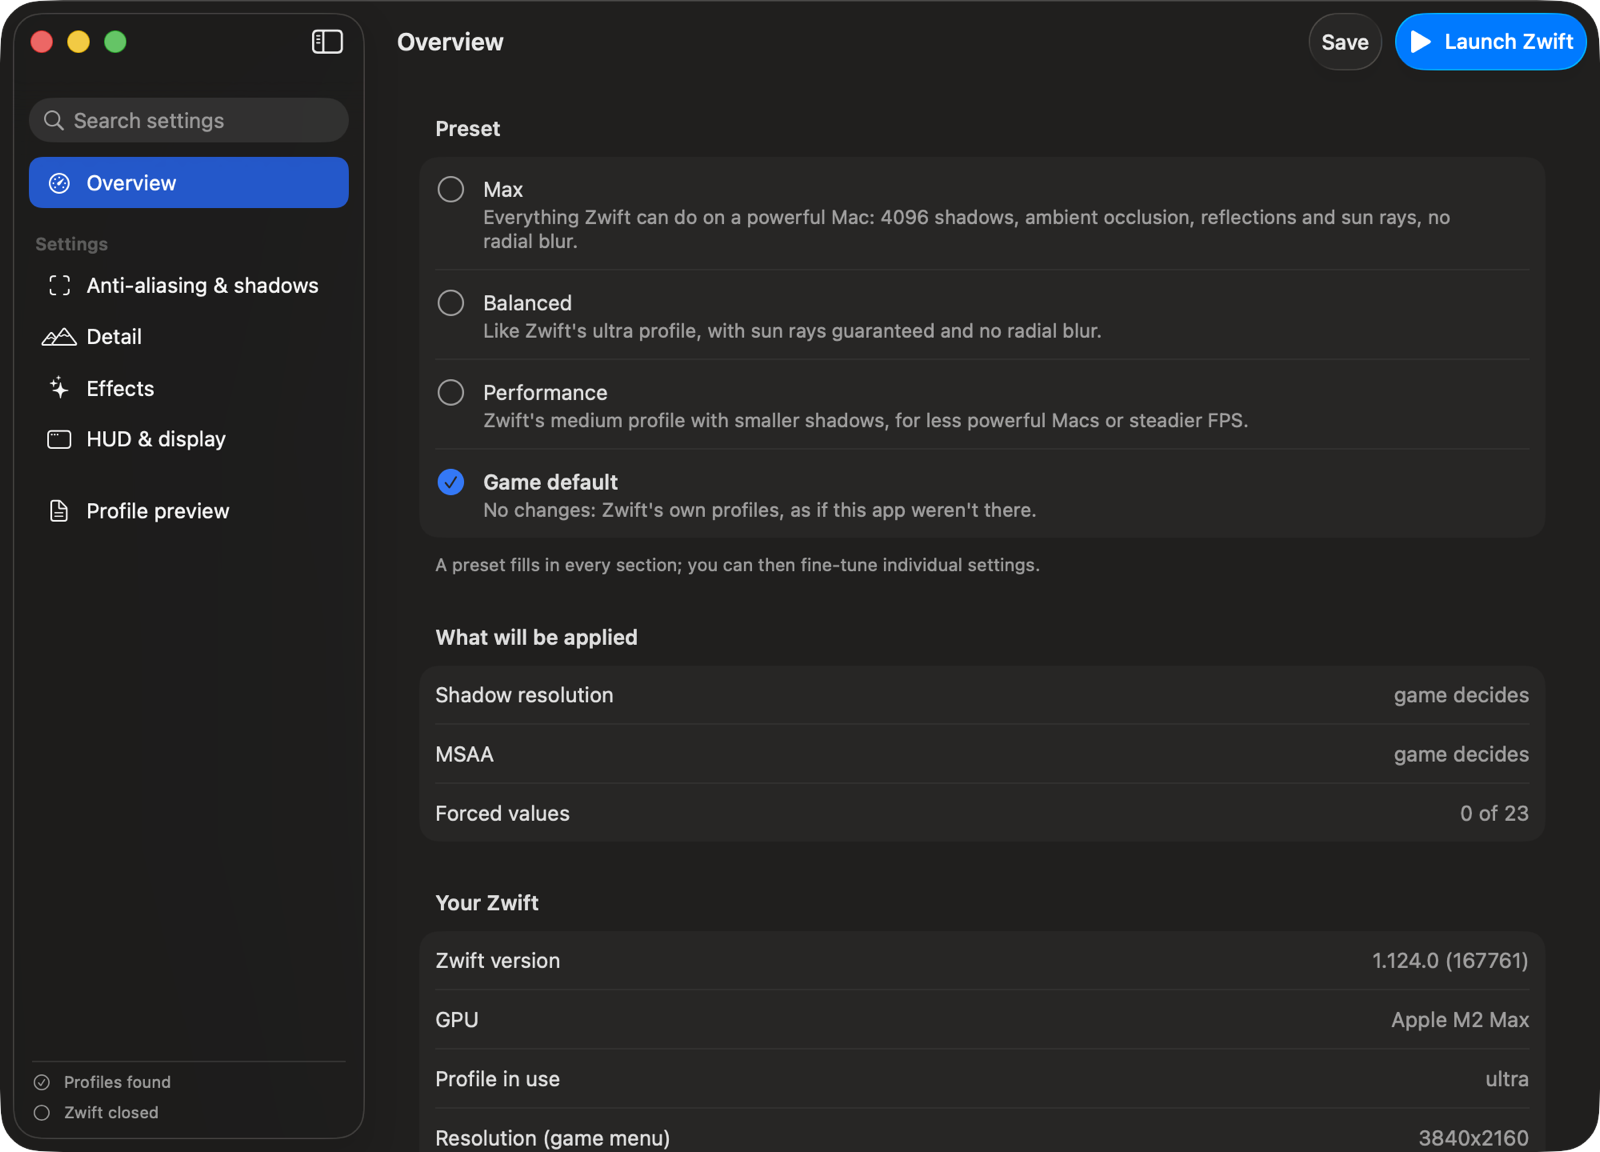
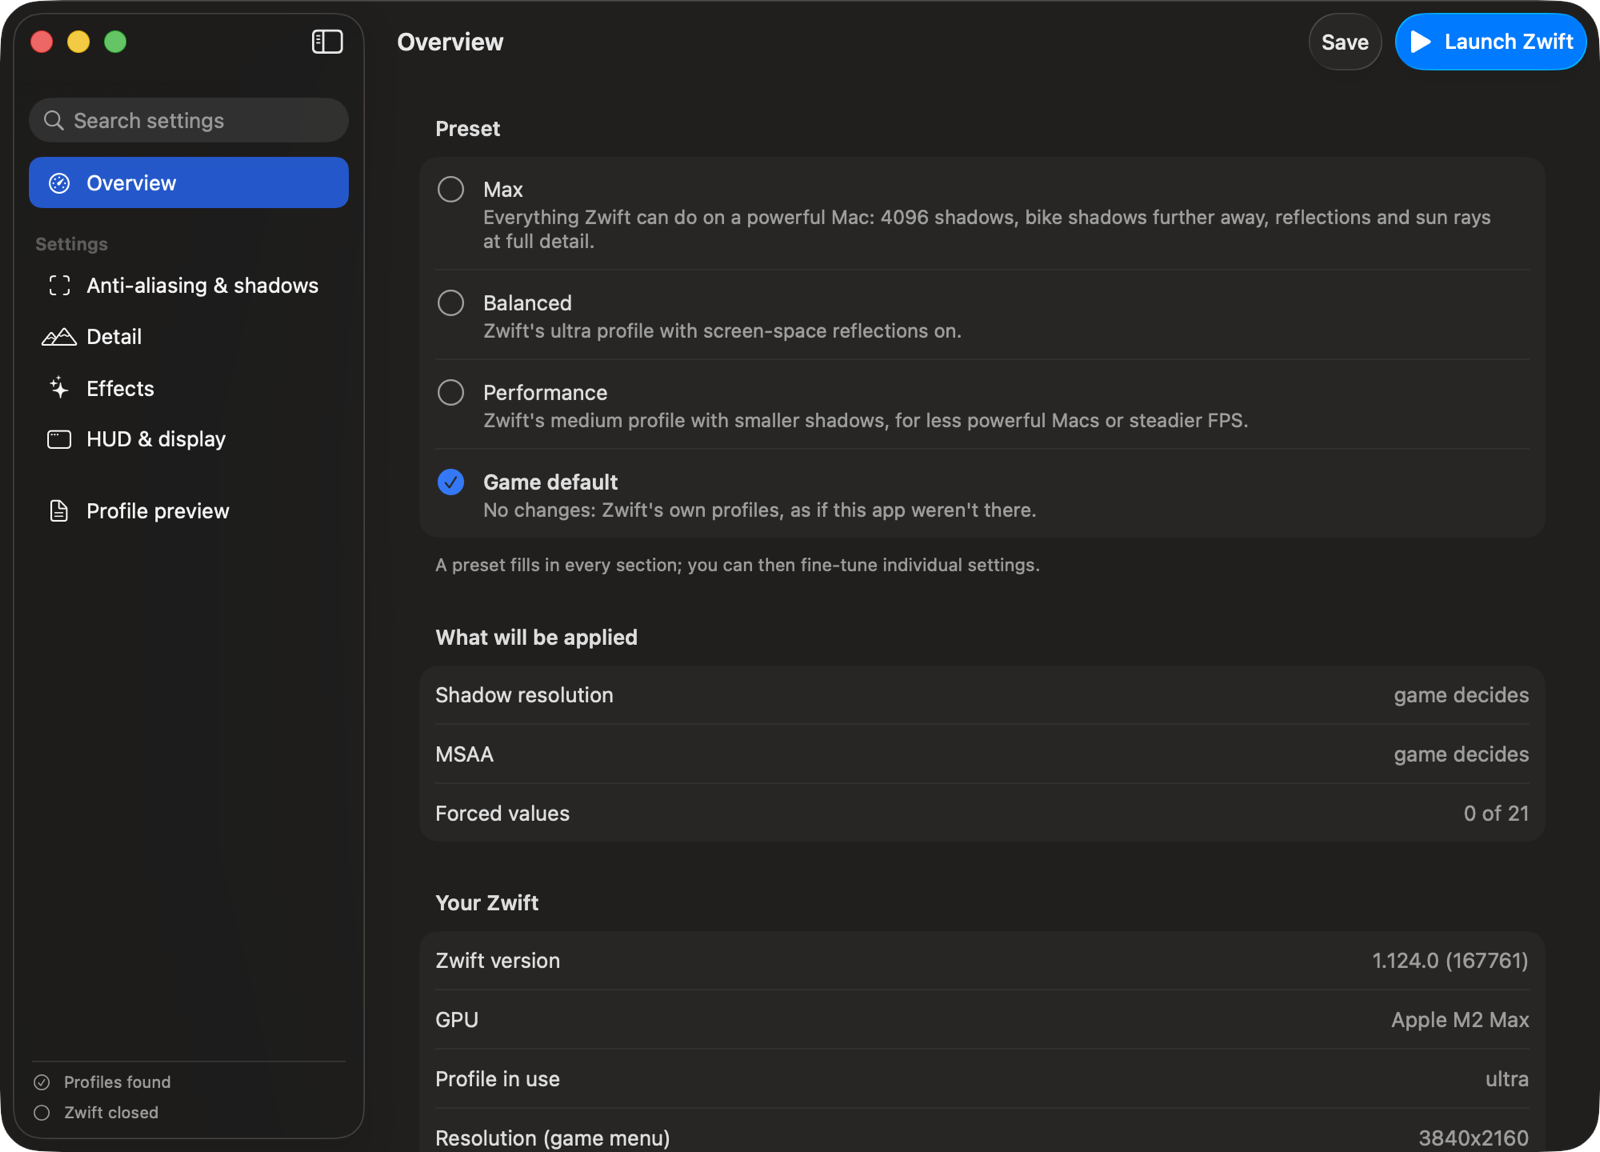
Keep only tweakables the game actually reads
Scanning the binary for accesses to each tweakable showed that gSSAO
and gRadialBlur are registered but never read, so they're removed.
gLODBias is clamped to 0-2 with an unsigned compare (-1 becomes 2) and
gFoliagePercent scales foliage instance counts, so it's capped at 1.
Bike shadow settings and gSSR get descriptions based on the code that
reads them.

diff --git a/Sources/Details.swift b/Sources/Details.swift
@@ -4,7 +4,7 @@ import Foundation
 enum Effectiveness {
     /// Zwift's own graphics profiles use it: the game reads it at every launch.
     case verified
-    /// Registered as a tweakable in the game, but Zwift's profiles never set it: the effect wasn't observed.
+    /// Zwift's profiles never set it, but the game's code reads it: the effect wasn't seen in game yet.
     case registered
     /// Values beyond what Zwift itself uses: unpredictable result.
     case experimental
@@ -12,7 +12,7 @@ enum Effectiveness {
     var label: String {
         switch self {
         case .verified: return L("Used by Zwift's own profiles")
-        case .registered: return L("Present in the game, effect not verified")
+        case .registered: return L("Read by the game's code, effect not seen in game yet")
         case .experimental: return L("Experimental")
         }
     }
@@ -33,11 +33,12 @@ struct SettingInfo {
 
 extension Catalog {
     /// Defaults the tweakables are registered with in the Zwift 1.124.0 binary (ZwiftAppSilicon), read from their static initializers.
+    /// gSSAO and gRadialBlur are left out: they are registered, but no code reads them.
     /// The graphics profile can change them at launch; the game falls back to these values otherwise.
     static let gameDefaults: [String: String] = [
         "gFXAA": "1", "gForceBikeShadows": "0", "g_BikeMaxShadowCascade": "1", "gLODBias": "0", "gFoliagePercent": "1.00",
-        "gSSAO": "0", "gSSR": "0", "gSimpleReflections": "0", "gSunRays": "1", "gBloom": "1", "gBloomStrength": "0.50",
-        "gRadialBlur": "1", "gVignette": "1", "gAutoExposure": "1", "gHeadlight": "1", "gHeadlightIntensity": "0.50",
+        "gSSR": "0", "gSimpleReflections": "0", "gSunRays": "1", "gBloom": "1", "gBloomStrength": "0.50",
+        "gVignette": "1", "gAutoExposure": "1", "gHeadlight": "1", "gHeadlightIntensity": "0.50",
         "gShowFPS": "0", "g_bDrawHud": "1", "gUseSpringyCamera": "1", "g_ShouldHideMouseAfterTimeout": "1",
         "g_HideMouseAfterMS": "5000",
     ]
@@ -51,19 +52,17 @@ extension Catalog {
         "msaa": .init(effect: .experimental, detail: L("Multisample anti-aliasing smooths the edges of geometry (bikes, riders, barriers) better than FXAA, at a high GPU cost. Zwift's profiles turn it off. The resolution set in Zwift's menu is applied after the profile without an MSAA value: whether MSAA survives that is unverified. Check the log for \"Changed resolution\". If the game already renders at a higher resolution than the display, the gain is small.")),
         "gFXAA": .init(effect: .verified, detail: L("Fast anti-aliasing applied to the final image: smooths edges almost for free, but makes the image a little softer. On in every Zwift profile.")),
         "sres": .init(effect: .verified, detail: L("Size of the sun's shadow map. 4096 makes the shadows of trees, riders and buildings on the road noticeably sharper; 8192 is very heavy on GPU memory and goes beyond what Zwift itself uses.")),
-        "gForceBikeShadows": .init(effect: .registered, detail: L("Draws shadows for every bike, not only the closest ones. Noticeable in big groups and events; the cost grows with the number of riders on screen.")),
-        "g_BikeMaxShadowCascade": .init(effect: .experimental, detail: L("How many shadow cascades bikes are drawn into (game default 1). Higher values could keep bike shadows at greater distances; the effect wasn't observed.")),
+        "gForceBikeShadows": .init(effect: .registered, detail: L("Bikes cast shadows only when an internal hardware flag allows it; this forces them on regardless. On a Mac where Zwift already draws bike shadows it changes nothing.")),
+        "g_BikeMaxShadowCascade": .init(effect: .registered, detail: L("Sun shadows are split into cascades, from the closest to the most distant. Bikes are drawn into cascades up to this index (game default 1): higher values keep the shadows of bikes further down the road, at a cost that grows with the number of riders.")),
 
-        "gLODBias": .init(effect: .verified, detail: L("When objects switch to simpler models. Zwift's basic and medium profiles use 1; ultra leaves 0. -1 is beyond what Zwift uses: it might keep full detail further away, or have no effect.")),
-        "gFoliagePercent": .init(effect: .verified, detail: L("How many trees, bushes and plants are drawn. Zwift's basic and medium profiles use 0.5; the game default is 1. Values above 1 are beyond what Zwift uses.")),
+        "gLODBias": .init(effect: .verified, detail: L("The most detailed model level the game may use: 0 allows full detail, 1 and 2 skip the best levels. Zwift's basic and medium profiles use 1. The game clamps it between 0 and 2, so there is no way to go beyond full detail (a negative value would even become 2).")),
+        "gFoliagePercent": .init(effect: .verified, detail: L("Share of the trees, bushes and plants that are drawn: the game multiplies each foliage instance count by this value. Zwift's basic and medium profiles use 0.5; 1 (the game default) is the maximum, as more instances than the ones loaded can't be drawn.")),
 
-        "gSSAO": .init(effect: .verified, detail: L("Soft shading in corners and where objects touch the ground: gives depth to scenery and riders. Off by default, on in Zwift's high and ultra profiles. Moderate GPU cost.")),
-        "gSSR": .init(effect: .registered, detail: L("Reflections computed from what's on screen: water, wet roads after the rain, shiny surfaces. Off by default and never turned on by Zwift's profiles.")),
+        "gSSR": .init(effect: .registered, detail: L("Reflections computed from what's on screen: water, wet roads after the rain, shiny surfaces. Off by default and never turned on by Zwift's profiles; the renderer also checks an internal flag before using them, so on some scenes it may change nothing.")),
         "gSimpleReflections": .init(effect: .verified, detail: L("A cheaper reflection model. Zwift's basic and medium profiles turn it on; leave it off for the best image.")),
         "gSunRays": .init(effect: .verified, detail: L("Light shafts when the sun shines through trees and buildings. On by default, off in Zwift's basic and medium profiles.")),
         "gBloom": .init(effect: .registered, detail: L("Glow around the sun and strong lights. Off gives a flatter, more neutral image.")),
         "gBloomStrength": .init(effect: .registered, detail: L("How strong the glow is (game default 0.5). Only used when bloom is on.")),
-        "gRadialBlur": .init(effect: .registered, detail: L("Blur toward the screen edges, typically when going fast. Many prefer it off for a sharper image during long rides.")),
         "gVignette": .init(effect: .registered, detail: L("Darkens the corners of the image, like a camera lens. Off gives a more even image.")),
         "gAutoExposure": .init(effect: .registered, detail: L("Adapts brightness when going from bright to dark areas (tunnels, forests), like an eye. Off keeps the exposure fixed.")),
         "gHeadlight": .init(effect: .verified, detail: L("The bikes' front lights at dusk and night. On by default, off in Zwift's basic and medium profiles.")),

diff --git a/Sources/Settings.swift b/Sources/Settings.swift
@@ -58,7 +58,7 @@ struct SettingDef: Identifiable {
         }
     }
 
-    /// The profile line for a value, e.g. `set gSSAO=1` or `sres 4096x4096`.
+    /// The profile line for a value, e.g. `set gSSR=1` or `sres 4096x4096`.
     func line(for value: String, resolution: String?) -> String? {
         switch command {
         case .tweakable:
@@ -103,7 +103,7 @@ enum SettingSection: String, CaseIterable, Identifiable {
         case .antiAliasing:
             return L("Zwift picks a graphics profile (basic, medium, high or ultra) from its own list of GPUs, then applies the resolution chosen in its menu. The menu has no anti-aliasing or shadow settings.")
         case .detail:
-            return L("Zwift's lower profiles halve the foliage and raise the level-of-detail bias; ultra leaves both at the game's defaults.")
+            return L("Zwift's lower profiles halve the foliage and raise the level-of-detail bias; ultra leaves both at full detail, which is also the most the game allows.")
         default:
             return nil
         }
@@ -140,19 +140,18 @@ enum Catalog {
 
         // Detail
         tweak("gLODBias", L("Level-of-detail bias"), .detail, .choice([
-            Option(value: "-1", label: L("-1 · More detail")), Option(value: "0", label: L("0 · Normal")),
-            Option(value: "1", label: L("1 · Less detail")), Option(value: "2", label: L("2 · Much less detail")),
+            Option(value: "0", label: L("0 · Full detail")), Option(value: "1", label: L("1 · Less detail")),
+            Option(value: "2", label: L("2 · Much less detail")),
         ])),
-        tweak("gFoliagePercent", L("Foliage density"), .detail, .slider(min: 0.25, max: 1.5, step: 0.25, decimals: 2, unit: "×")),
+        // The game multiplies its foliage instance counts by this value: above 1 they would exceed what was loaded.
+        tweak("gFoliagePercent", L("Foliage density"), .detail, .slider(min: 0.25, max: 1, step: 0.25, decimals: 2, unit: "×")),
 
         // Effects
-        tweak("gSSAO", L("Ambient occlusion (SSAO)"), .effects),
         tweak("gSSR", L("Screen-space reflections"), .effects),
         tweak("gSimpleReflections", L("Simplified reflections"), .effects),
         tweak("gSunRays", L("Sun rays"), .effects),
         tweak("gBloom", L("Bloom"), .effects),
         tweak("gBloomStrength", L("Bloom strength"), .effects, .slider(min: 0, max: 1.5, step: 0.05, decimals: 2, unit: "")),
-        tweak("gRadialBlur", L("Radial blur"), .effects),
         tweak("gVignette", L("Vignette"), .effects),
         tweak("gAutoExposure", L("Auto exposure"), .effects),
         tweak("gHeadlight", L("Headlights"), .effects),
@@ -189,20 +188,19 @@ struct Preset: Identifiable, Hashable {
     }
 
     static let builtIn: [Preset] = [
-        Preset(id: "max", name: L("Max"), summary: L("Everything Zwift can do on a powerful Mac: 4096 shadows, ambient occlusion, reflections and sun rays, no radial blur."),
+        Preset(id: "max", name: L("Max"), summary: L("Everything Zwift can do on a powerful Mac: 4096 shadows, bike shadows further away, reflections and sun rays at full detail."),
                values: [
-                   "sres": "4096", "gFXAA": "1", "gForceBikeShadows": "1",
+                   "sres": "4096", "gFXAA": "1", "gForceBikeShadows": "1", "g_BikeMaxShadowCascade": "2",
                    "gLODBias": "0", "gFoliagePercent": "1.00",
-                   "gSSAO": "1", "gSSR": "1", "gSimpleReflections": "0", "gSunRays": "1", "gHeadlight": "1",
-                   "gRadialBlur": "0",
+                   "gSSR": "1", "gSimpleReflections": "0", "gSunRays": "1", "gHeadlight": "1",
                ]),
-        Preset(id: "balanced", name: L("Balanced"), summary: L("Like Zwift's ultra profile, with sun rays guaranteed and no radial blur."),
+        Preset(id: "balanced", name: L("Balanced"), summary: L("Zwift's ultra profile with screen-space reflections on."),
                values: [
-                   "sres": "2048", "gFXAA": "1", "gSSAO": "1", "gSunRays": "1", "gRadialBlur": "0",
+                   "sres": "2048", "gFXAA": "1", "gSSR": "1", "gSunRays": "1",
                ]),
         Preset(id: "performance", name: L("Performance"), summary: L("Zwift's medium profile with smaller shadows, for less powerful Macs or steadier FPS."),
                values: [
-                   "sres": "1024", "gFXAA": "1", "gSSAO": "0", "gSunRays": "0", "gHeadlight": "0",
+                   "sres": "1024", "gFXAA": "1", "gSunRays": "0", "gHeadlight": "0",
                    "gFoliagePercent": "0.50", "gSimpleReflections": "1", "gLODBias": "1",
                ]),
         Preset(id: "original", name: L("Game default"), summary: L("No changes: Zwift's own profiles, as if this app weren't there."),

diff --git a/Tests/main.swift b/Tests/main.swift
@@ -15,7 +15,7 @@ let max = ConfigPlan(values: Catalog.validated(Preset.builtIn.first { $0.id == "
 let composed = ProfileFile.compose(ultra, lines: max.lines)
 check("original kept at the top", composed.hasPrefix(ultra))
 check("shadow line before tweakables", max.lines.first == "sres 4096x4096")
-check("tweakables written as set", max.lines.contains("set gSSR=1") && max.lines.contains("set gRadialBlur=0"))
+check("tweakables written as set", max.lines.contains("set gSSR=1") && max.lines.contains("set g_BikeMaxShadowCascade=2"))
 check("ends with a newline", composed.hasSuffix("\n") && !composed.hasSuffix("\n\n"))
 check("missing trailing newline handled", ProfileFile.compose("set gFXAA=1", lines: ["set gSSR=1"]) == "set gFXAA=1\nset gSSR=1\n")
 // 3. The original is recovered from the backup only while the file still holds what the app wrote
@@ -52,7 +52,9 @@ check("gpu read", snapshot.gpu == "Apple M2 Max")
 check("commands of the last launch only", snapshot.lastLaunchCommands == ["res 1920x1080(0x)", "set gSSAO=1", "set nAIBikes=24"])
 check("unknown variables reported", snapshot.unknownVariables == ["nAIBikes"])
 // 8. Validation rejects out-of-range and snaps sliders
-check("invalid values dropped", Catalog.validated(["sres": "3000", "gSSAO": "2", "foo": "1"]).isEmpty)
+check("invalid values dropped", Catalog.validated(["sres": "3000", "gSSR": "2", "gSSAO": "1", "foo": "1"]).isEmpty)
+check("negative LOD bias rejected (the game turns it into 2)", Catalog.validated(["gLODBias": "-1"]).isEmpty)
+check("foliage capped at 1", Catalog.validated(["gFoliagePercent": "1.25"]).isEmpty)
 check("slider snapped", Catalog.validated(["gFoliagePercent": "0.8", "gBloomStrength": "0.52"]) == ["gFoliagePercent": "0.75", "gBloomStrength": "0.50"])
 check("slider out of range dropped", Catalog.validated(["gFoliagePercent": "4"]).isEmpty)
 // 9. Every preset value is valid, and every tweakable has a game default

diff --git a/README.md b/README.md
@@ -19,10 +19,10 @@ This project was developed with the help of AI (Anthropic's Claude), including t
 ## Features
 
 - **Presets**: Max, Balanced, Performance, or the game's own profiles, then fine-tune any setting.
-- **23 settings in 4 sections**: anti-aliasing and shadows, detail, effects, HUD and display.
-- **Allowed values only**: every control is limited to values that make sense for the variable's type.
+- **21 settings in 4 sections**: anti-aliasing and shadows, detail, effects, HUD and display. Every one of them is read by the game's code.
+- **Allowed values only**: every control is limited to the values the game's code actually handles.
 - **The game's value next to each setting**: what the profile Zwift picked sets, or the default the game registers the variable with.
-- **Explanations**: what each setting does, what it costs, and how certain it is to have an effect (used by Zwift's own profiles / present in the game but not verified / experimental).
+- **Explanations**: what each setting does, what it costs, and how certain it is to have an effect (used by Zwift's own profiles / read by the game's code but not seen in game yet / experimental).
 - **Your Zwift**: version, GPU, the profile picked at the last launch, the commands it ran and any variable it didn't recognize, read from Zwift's log.
 - **Search**, a **preview** of exactly what will be written, automatic **backups** of the original profiles.
 - **Launch Zwift** with one click (⌘R), so the settings are always in place when the game starts.
@@ -57,13 +57,19 @@ Findings from analysing Zwift 1.124.0 (build 167761) on macOS:
 - **Graphics profiles are console scripts.** `data/configs/{basic,medium,high,ultra}.txt` contain commands such as `res 1920x1080(0x)`, `sres 2048x2048` and `set gSSAO=1`. At every launch the game matches the GPU against its own list and logs `Using ultra graphics profile`, followed by every command it runs.
 - **The menu's resolution comes last.** After the profile, the game applies `USER_RESOLUTION_PREF` from `~/Documents/Zwift/prefs.xml`, without an MSAA suffix. Whether MSAA set by the profile survives is unverified, so the app marks it experimental and writes it with the same resolution.
 - **Tweakables.** The game's console (`set`, `listvars`, `help`) changes "tweakable" global variables. 217 of them are registered in the binary; their names, types and default values were read from the static initializers that register them. Only visual ones are exposed here: the others drive physics, steering, braking, drafting and power-ups, and changing them would be cheating.
+- **Which tweakables actually do something.** For each exposed variable, the code that reads it was located by scanning the binary for accesses to the variable's address, then disassembled:
+  - `gSSAO` and `gRadialBlur` are registered but **never read**: Zwift's high and ultra profiles still turn SSAO on, to no effect. They're not in the app.
+  - `gLODBias` is clamped with an unsigned comparison to 0–2: 0 is already full detail, and a negative value turns into 2, the lowest.
+  - `gFoliagePercent` multiplies each foliage instance count: 1 is the maximum, more instances than the ones loaded can't be drawn.
+  - `g_BikeMaxShadowCascade` is the last shadow cascade bikes are drawn into; `gForceBikeShadows` overrides an internal hardware flag that otherwise decides whether bikes cast shadows.
+  - `gSSR` turns a pass on, but the renderer checks another internal flag too.
 - **Some lines in Zwift's own files are dead.** `nAIBikes`, `bDrawTrees`, `bloomStrength` and `g_timeScalar` appear in `currentconfig.txt` and `profile.txt` but their names don't even appear in this build. On the Mac used for the analysis, the log shows only the chosen profile being read.
 - **Pimp My Zwift appends its lines to all four profiles**, so the result doesn't depend on which one the game picks; later lines override earlier ones. The original of each profile is kept as `<profile>.txt.pimpmyzwift.bak`. If a Zwift update replaces a profile, the app takes the new file as the original and appends its lines again at the next launch from here.
 
 ### Not verified
 
-- The tweakables that no Zwift profile sets (marked with an orange question mark) exist in the game with the listed defaults, but their visual effect hasn't been observed in game.
-- Values beyond what Zwift itself uses (8192 shadows, LOD bias -1, foliage above 1×, more bike shadow cascades, MSAA) are marked experimental.
+- The tweakables that no Zwift profile sets (marked with an orange question mark) are read by the game's code, but their visual effect hasn't been seen in game yet.
+- MSAA is marked experimental: the resolution from Zwift's menu is applied after the profile, and whether MSAA survives it hasn't been checked.
 - After saving, launch Zwift once and check the **Your Zwift** section: it lists the commands the game ran and any variable it didn't recognize.
 
 ## License
